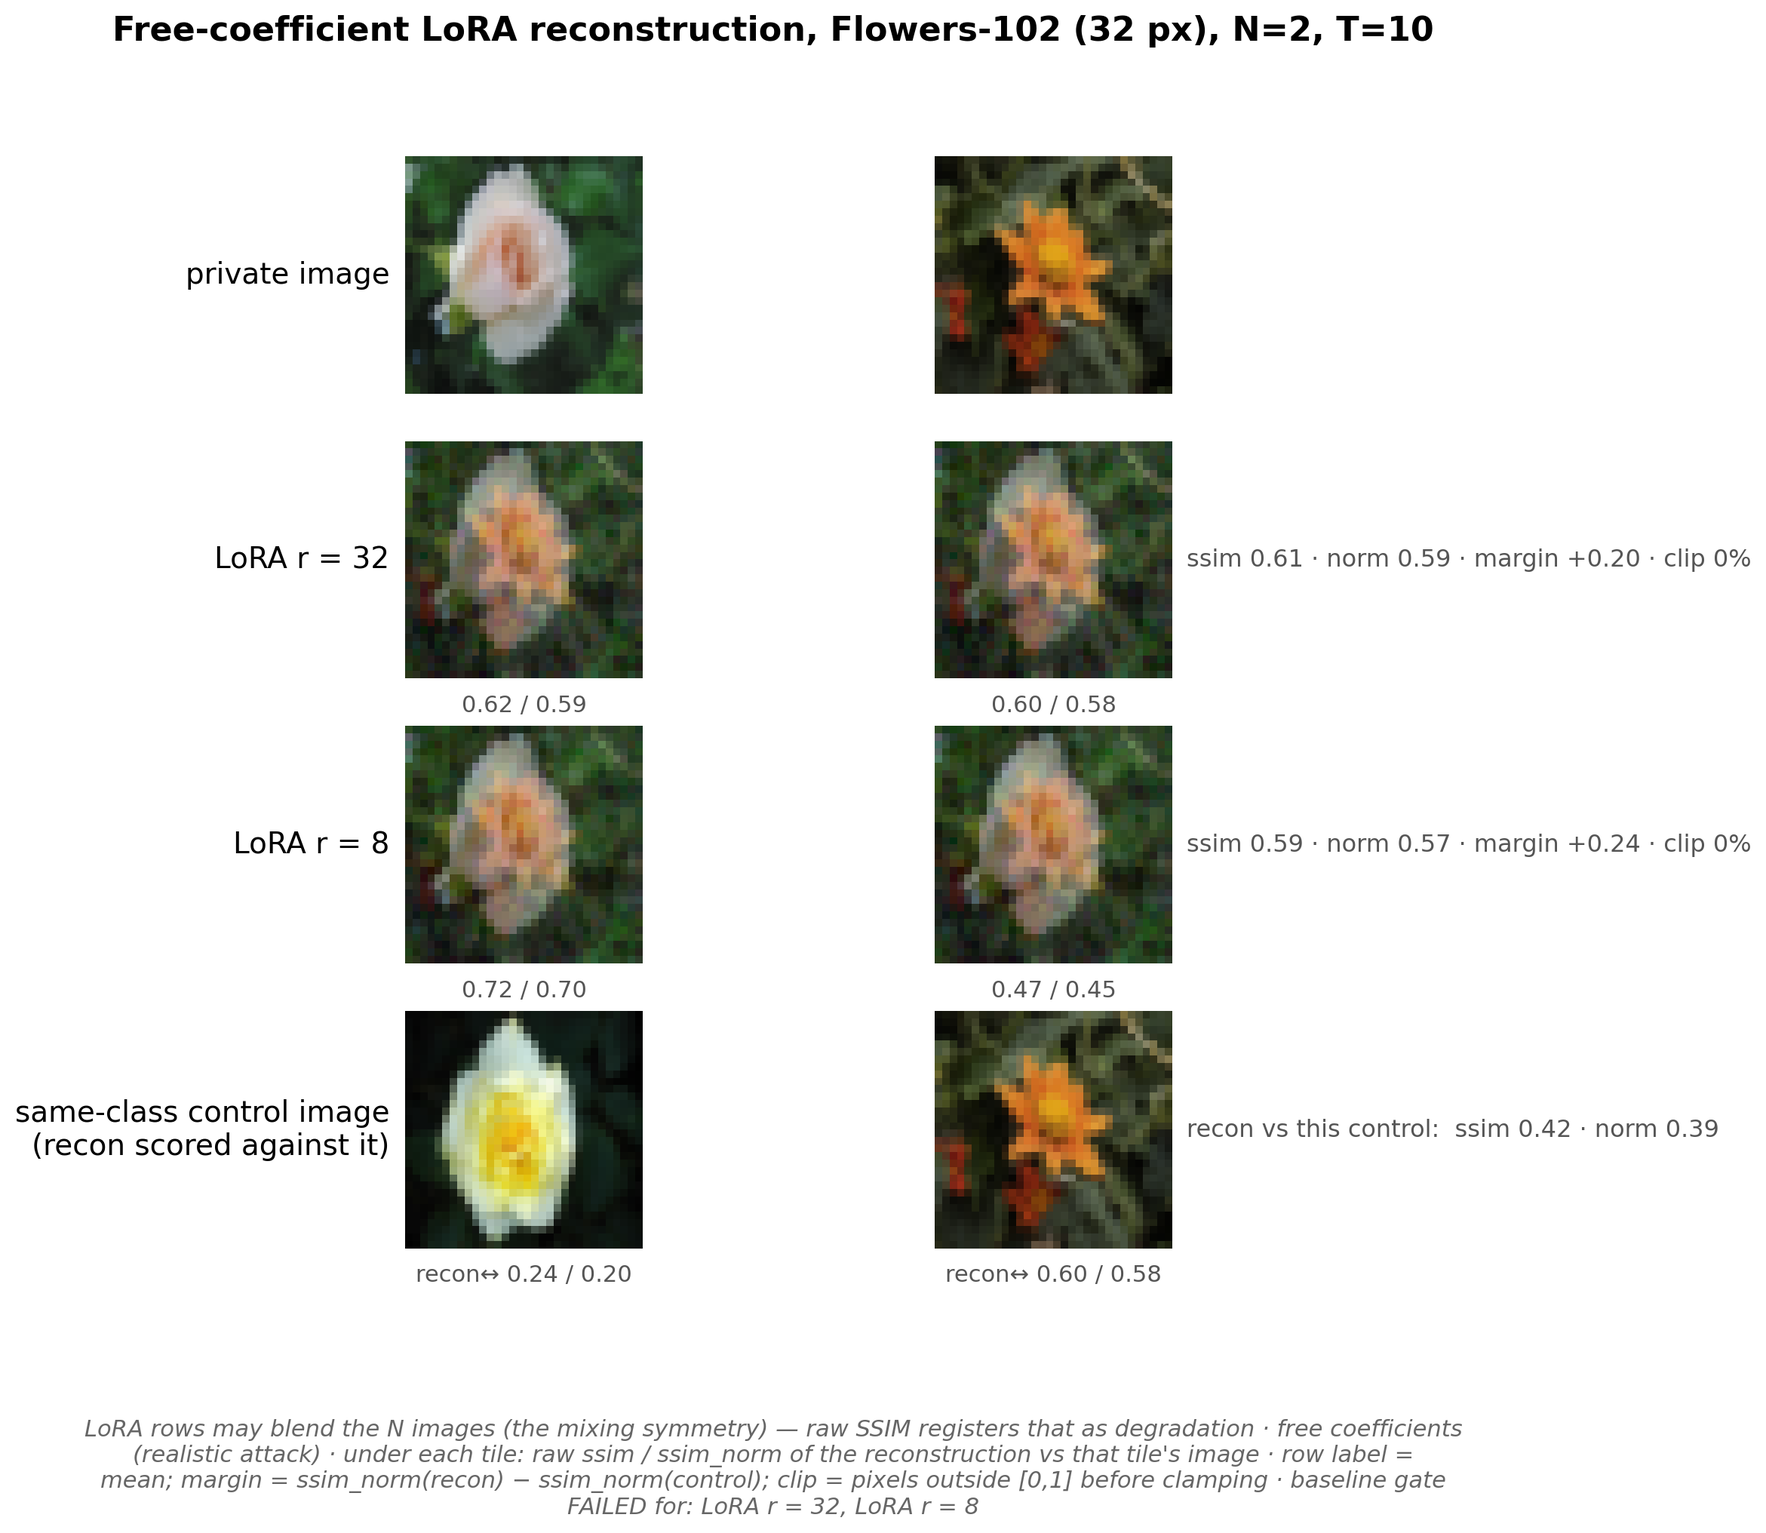
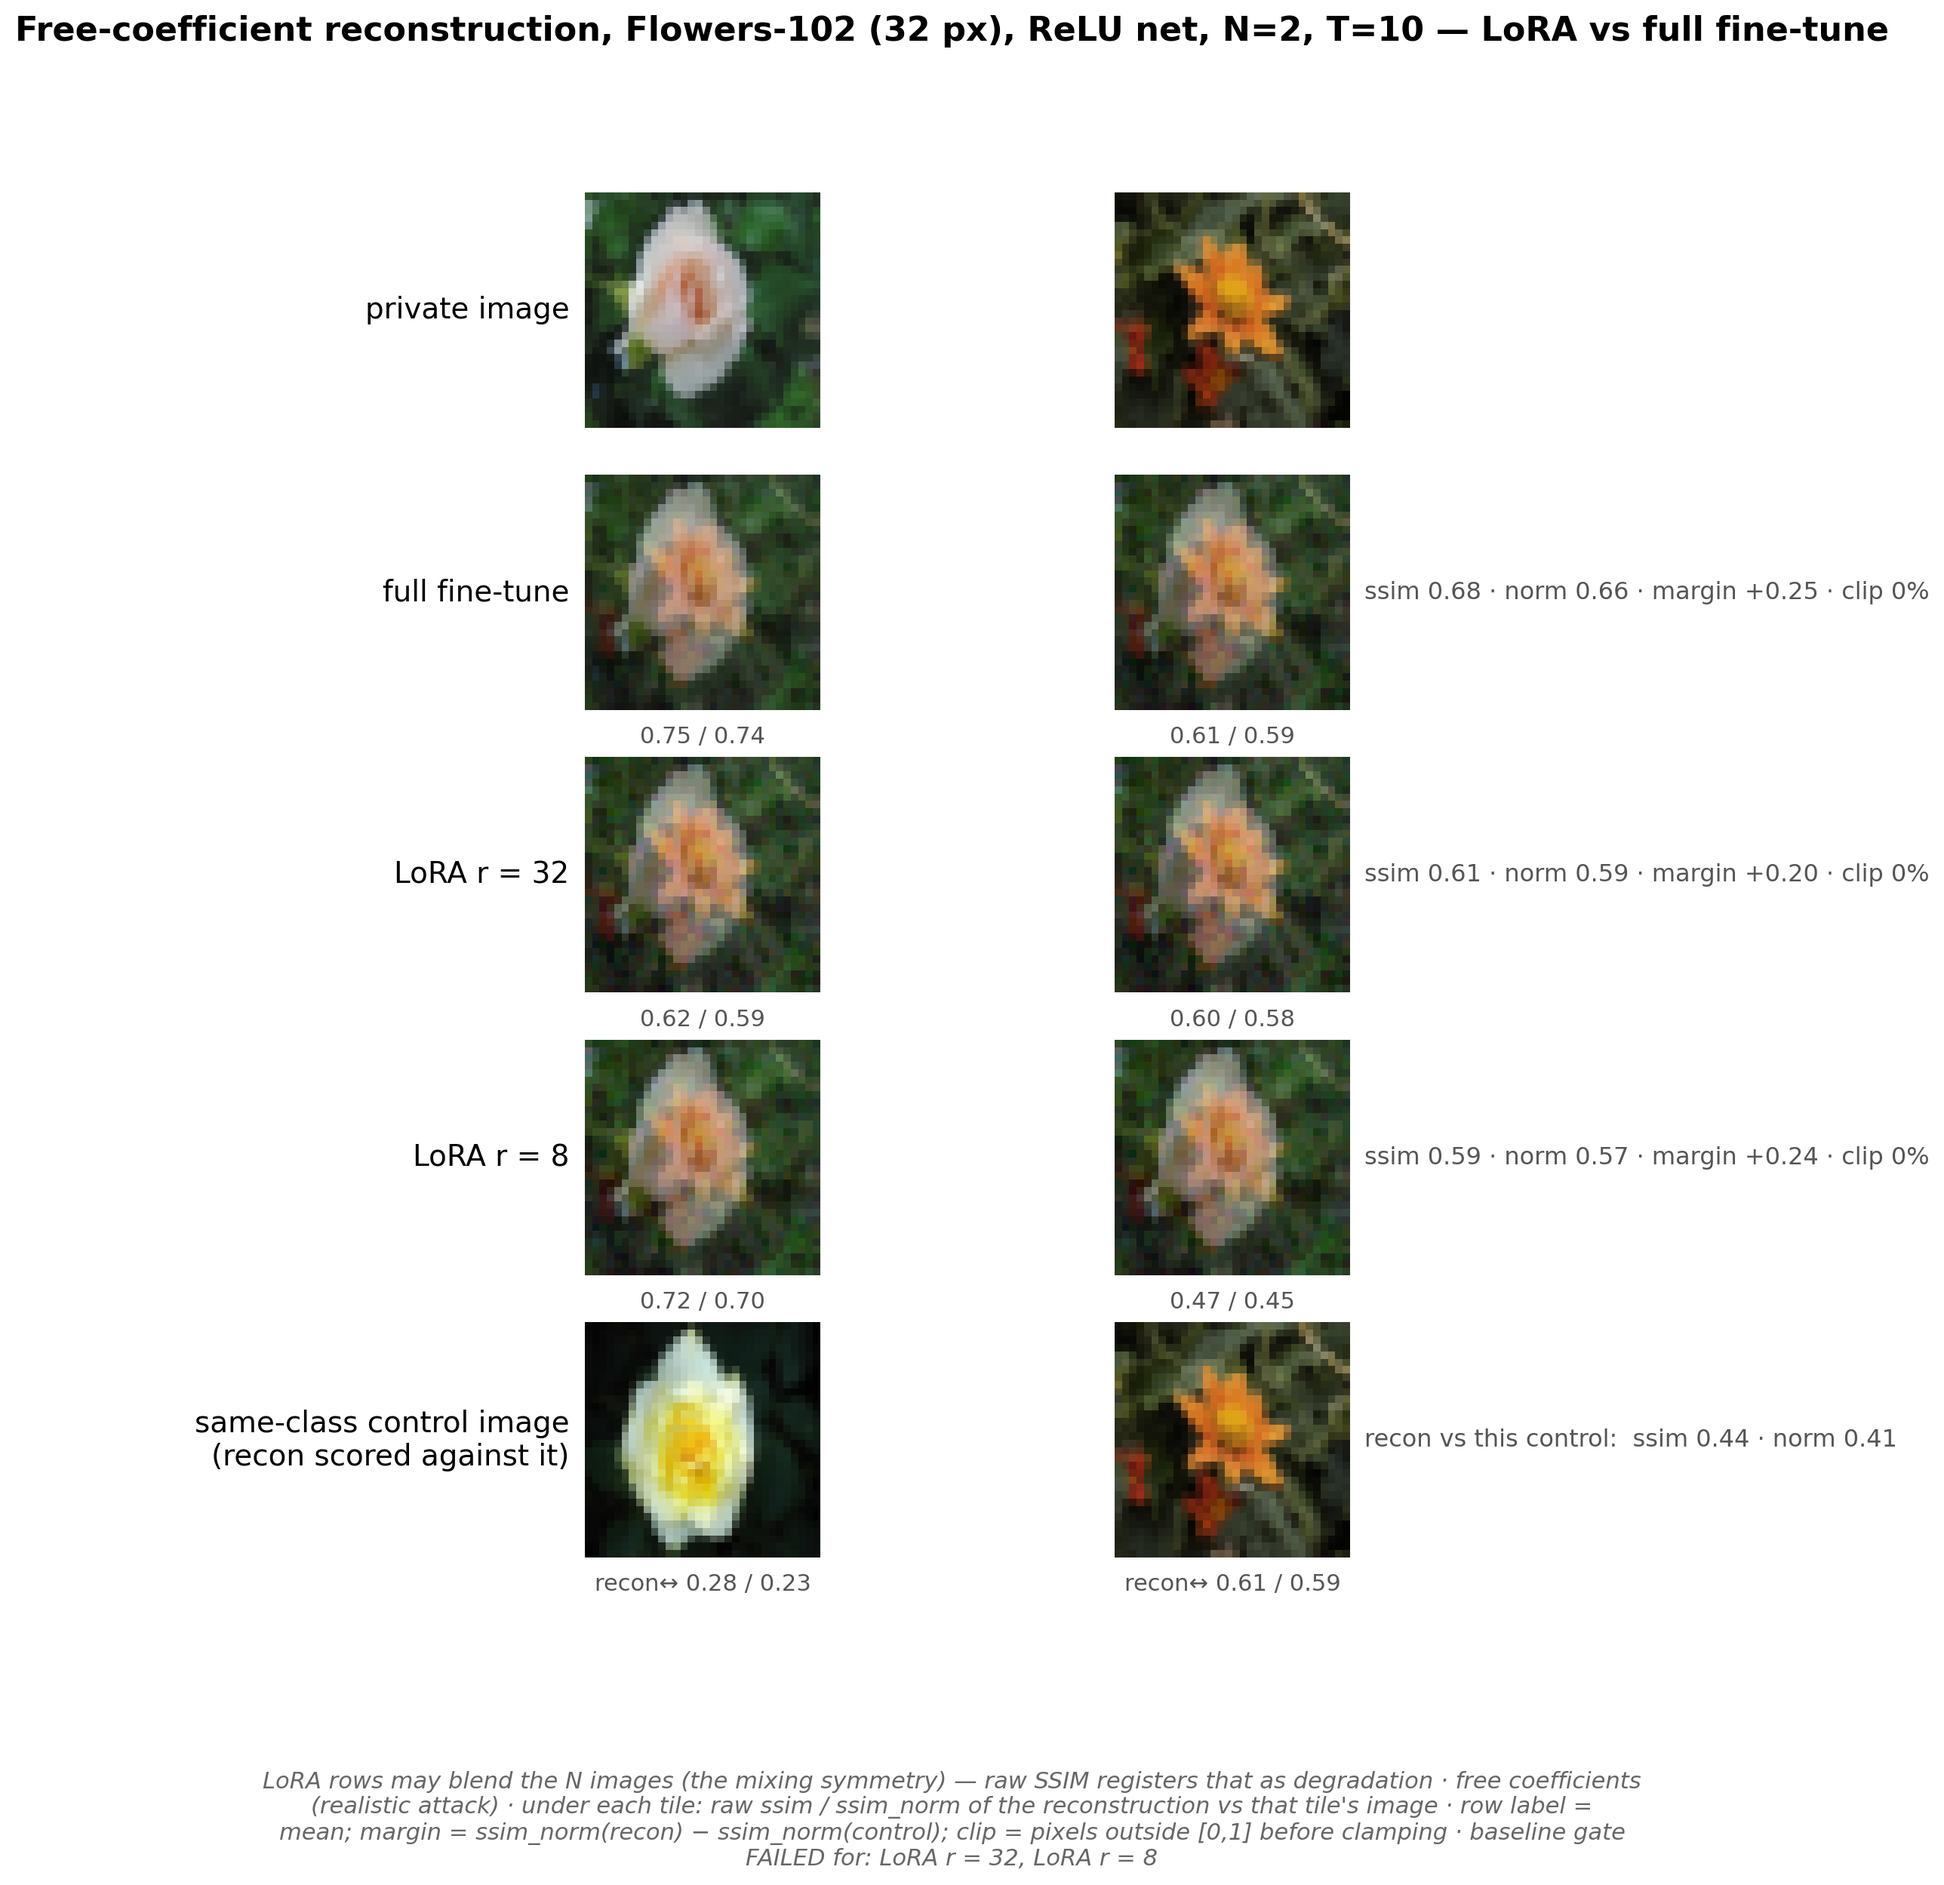
recon showcase v3: full sweep (62 cells) — MNIST T=5/10/20 + flowers T=5/10/20 grids with full-FT rows, activation in titles/rows; N-sweep job 497350 submitted

diff --git a/scripts/deck/make_recon_showcase.py b/scripts/deck/make_recon_showcase.py
@@ -55,6 +55,14 @@ def m(d, key):
     return d.get(f"{key}_metrics", {}) or {}
 
 
+def act_name(d):
+    """Fine-tune activation of the network in this run (config): None -> the harness default nn.ReLU."""
+    c = d.get("config") if isinstance(d.get("config"), dict) else {}
+    a = c.get("finetune_activation") or "relu"
+    return {"leaky_relu": "leaky-ReLU", "relu": "ReLU", "selu": "SELU", "sigmoid": "sigmoid", "softplus": "softplus",
+            "gelu": "GELU", "silu": "SiLU"}.get(a, a)
+
+
 def per_tile(d, key, recon_key=None):
     """Per-image (raw ssim, ssim_norm), mirroring experiments/run_experiment_b.py exactly:
     recon (centered) vs x_train - ds_mean for key in {lora, full}; for key == "control" the
@@ -237,8 +245,19 @@ def tsweep(write_csv=True):
                        else "baseline gate FAILED for: " + ", ".join(fails)))
             nice = {"mnist": "MNIST", "flowers32": "Flowers-102 (32 px)", "fashion": "Fashion-MNIST"}.get(ds, ds)
             has_full = (ds, T, "full") in best
-            ttl = (f"Free-coefficient reconstruction, {nice}, N=2, T={T} — LoRA vs full fine-tune" if has_full
-                   else f"Free-coefficient LoRA reconstruction, {nice}, N=2, T={T}")
+            acts = [act_name(best[(ds, T, rk)][1]) for rk, _ in order if (ds, T, rk) in best]
+            main_act = max(set(acts), key=acts.count)
+            Nimg = first["x_train"].shape[0]
+            ttl = (f"Free-coefficient reconstruction, {nice}, {main_act} net, N={Nimg}, T={T} — LoRA vs full fine-tune" if has_full
+                   else f"Free-coefficient LoRA reconstruction, {nice}, {main_act} net, N={Nimg}, T={T}")
+            # flag rows whose activation differs from the title's
+            for k_, r_ in enumerate(rows):
+                if k_ == 0 or len(r_) < 4:
+                    continue
+                lab_ = r_[0]
+                for rk, lab2 in order:
+                    if lab2 == lab_ and (ds, T, rk) in best and act_name(best[(ds, T, rk)][1]) != main_act:
+                        rows[k_] = (lab_ + f"\n({act_name(best[(ds, T, rk)][1])} net)",) + tuple(r_[1:])
             grid(rows, f"freec_{ds}_T{T}_lora_vs_full.png", title=ttl, note=note)
 
 

diff --git a/figures/recon_showcase/README.md b/figures/recon_showcase/README.md
@@ -4,6 +4,8 @@ Realistic attack only: **free coefficients** (the attacker does not know the per
 oracle-coefficient runs appear nowhere. Non-trivial training length: T ∈ {5, 10, 20} SGD steps (T=1 panels are
 kept as `freec_T1_*` for reference only and are NOT part of the deliverable).
 
+Activations: every MNIST cell is a leaky-ReLU network (extraction surrogate ModifiedReLU α≈150, L-BFGS) unless a row says otherwise (T=20 r=32 is plain ReLU); Flowers cells are the harness-default ReLU network (extraction ModifiedReLU α=10⁴ ≈ ReLU, SGD). Titles carry the activation.
+N: all grids here are N = 2 (n_per_class = 1); an N-sweep (N = 4, 6, 10; job 497350) is running and will be added as it lands.
 Setup: N = 2 private images, one fine-tuned MLP (Haim-style), seed 42. MNIST: leaky-ReLU fine-tune (the leaking,
 kinked activation), extraction with L-BFGS; LoRA = rank-r adapter on the first layer; "full fine-tune" = all first-layer
 weights. Flowers-102 (32 px, RGB): ReLU-extraction recipe (relu_alpha 10000, SGD). Per (dataset, T, rank) the best
